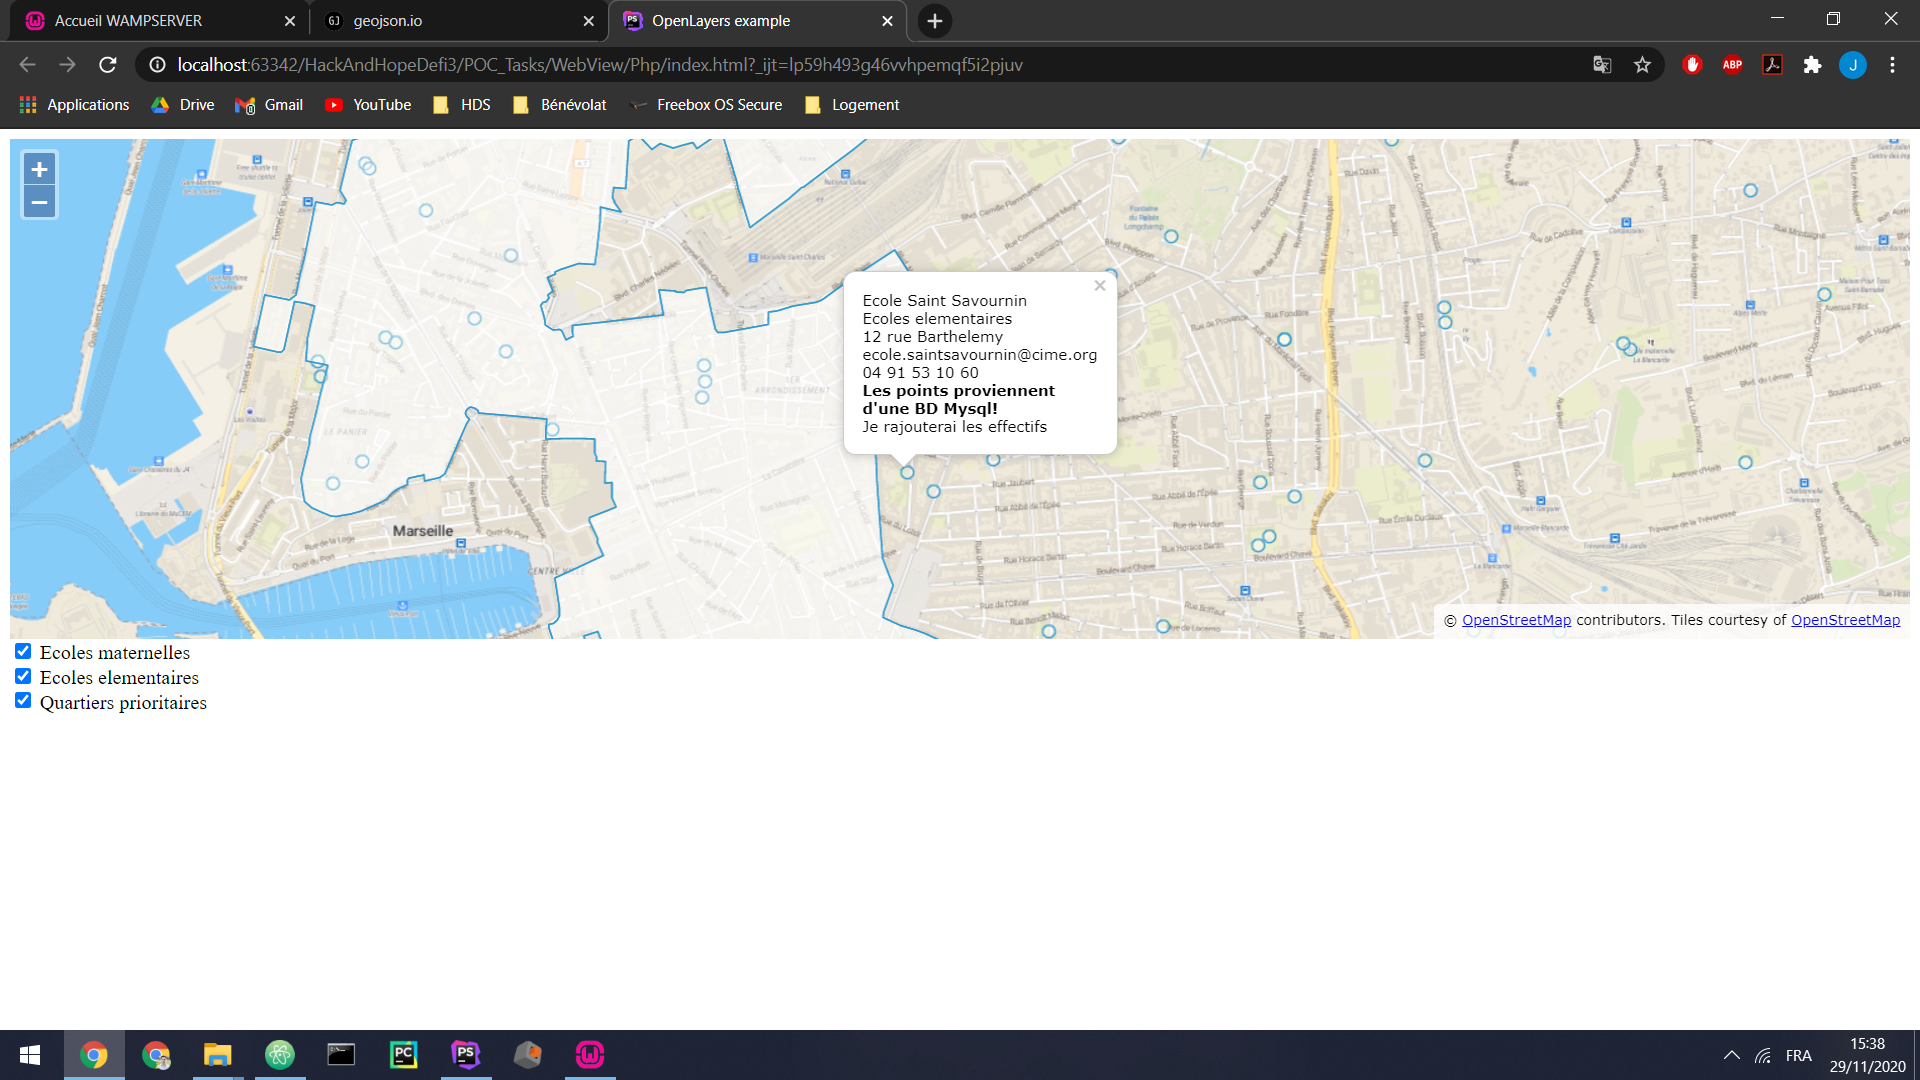
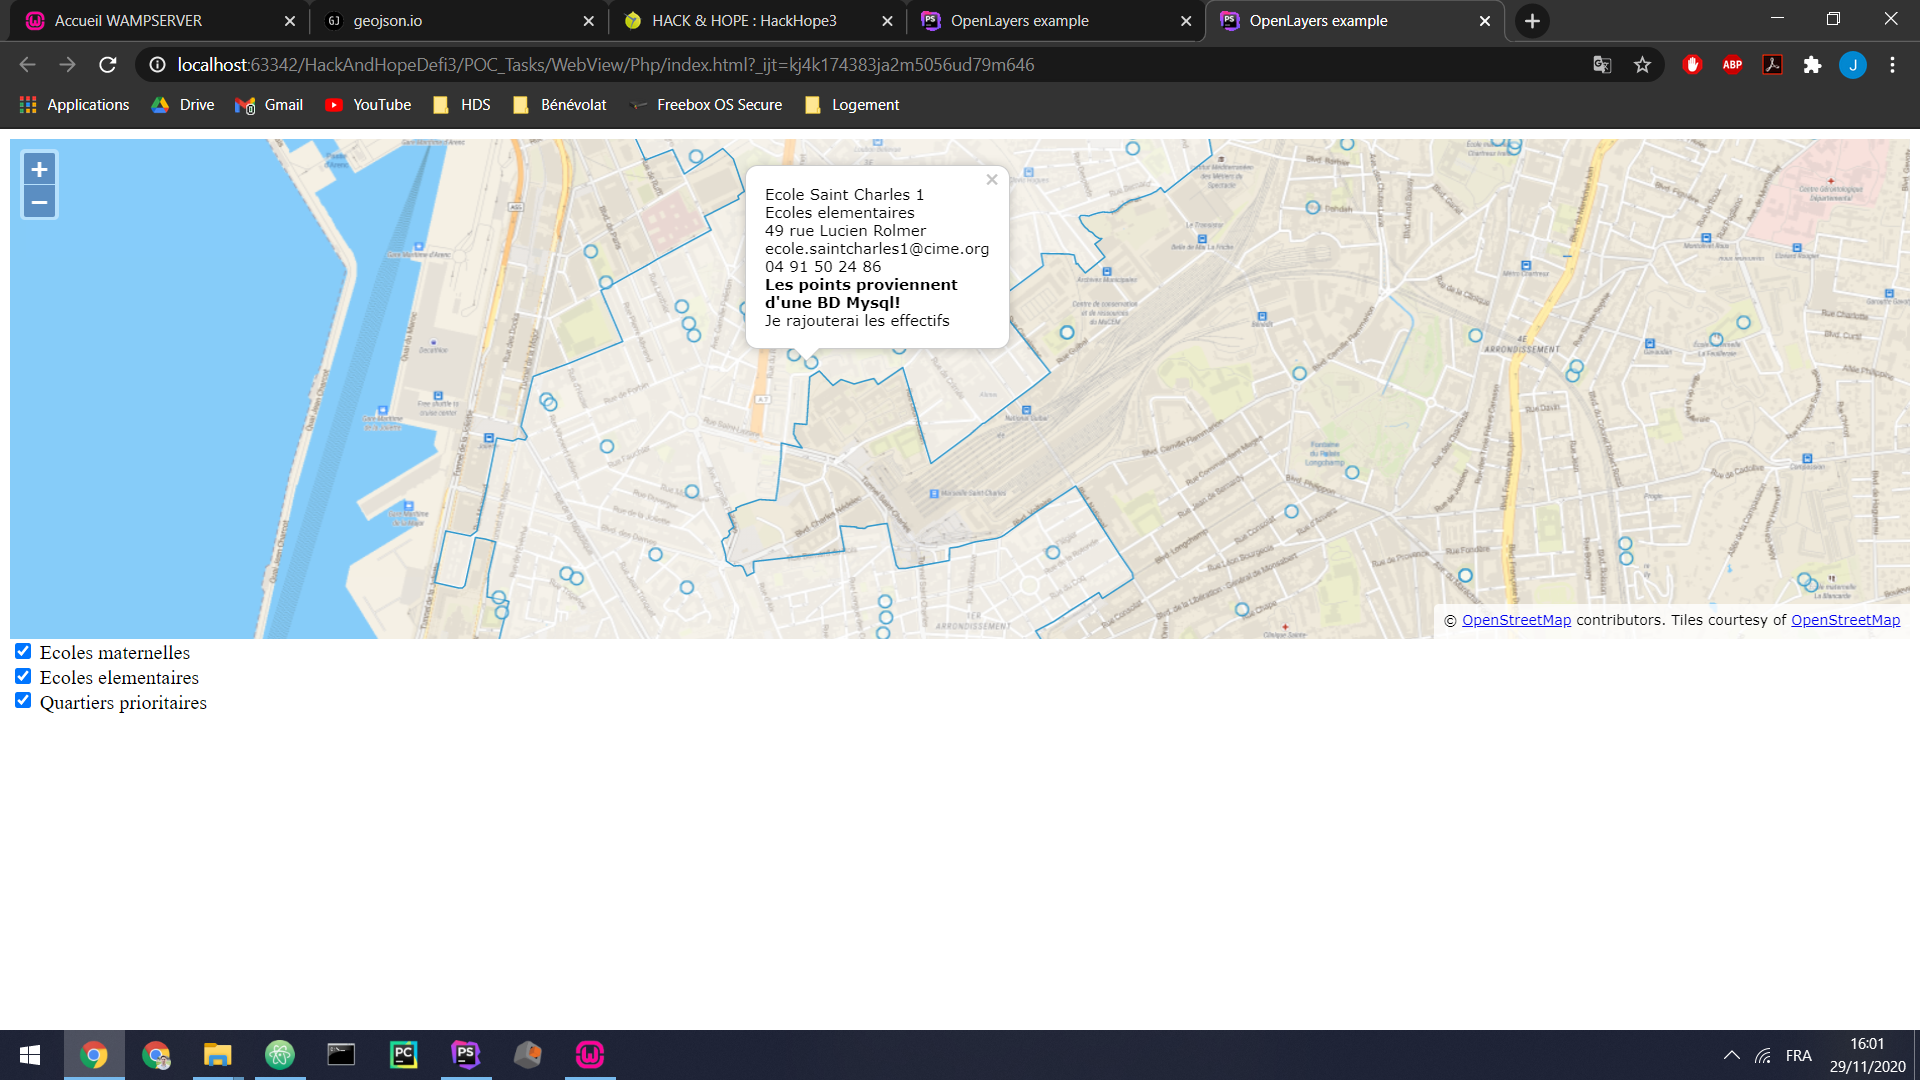
#7 Errors on area and information display corrected

diff --git a/POC_Tasks/WebView/Php/php/loadMarseilleSchool.php b/POC_Tasks/WebView/Php/php/loadMarseilleSchool.php
@@ -85,15 +85,6 @@ echo_markers("Ecoles elementaires");
 
 
 echo '
-    var vector = new ol.layer.Vector({
-        category: \'Quartiers prioritaires\',
-        source: new ol.source.Vector({
-            url: \'data/geojson/liste_quartiers_prioritairesville.geojson\',
-            format: new ol.format.GeoJSON(),
-        }),
-    });
-    map.addLayer(vector);
-
     var container = document.getElementById(\'popup\');
     var content = document.getElementById(\'popup-content\');
     var closer = document.getElementById(\'popup-closer\');
@@ -117,21 +108,34 @@ echo '
     map.on(\'singleclick\', function (event) {
         if (map.hasFeatureAtPixel(event.pixel) === true) {
             var coordinate = event.coordinate;
-            // TODO POPUP MARKER CUSTOM DISPLAY
-            content.innerHTML = \'<b>Les points proviennent d\\\'une BD Mysql!</b><br />Je rajouterai les effectifs\';
-
-
             var feature = map.forEachFeatureAtPixel(event.pixel, function(feature) {
-                return feature;
-            });
-            console.log(infoElement, feature, feature.get(\'title\'));
-            infoElement.innerHTML = feature ? feature.get(\'title\')
-              + "<br>" + feature.get(\'category\')
-              + "<br>" + feature.get(\'address\')
-               + "<br>" + feature.get(\'email\')
-                + "<br>" + feature.get(\'phone\'): \'\';
-
-            overlay.setPosition(coordinate);
+                    return feature;
+                });
+            if (feature.get(\'category\') == "Ecoles elementaires" || feature.get(\'category\') == "Ecoles maternelles") {
+                console.log(feature.get(\'category\'));
+                // TODO POPUP MARKER CUSTOM DISPLAY
+                content.innerHTML = \'<b>Les points proviennent d\\\'une BD Mysql!</b><br />Je rajouterai les effectifs\';
+    
+    
+                
+                console.log(infoElement, feature, feature.get(\'title\'));
+                
+                
+                infoElement.innerHTML = feature ? feature.get(\'title\')
+                  + "<br>" + feature.get(\'category\')
+                  + "<br>" + feature.get(\'address\')
+                   + "<br>" + feature.get(\'email\')
+                    + "<br>" + feature.get(\'phone\'): \'\';
+    
+                overlay.setPosition(coordinate);
+            }
+            else if (feature.get(\'category\') == undefined) {
+            // TODO add popup district priority information
+            }
+            else {
+                overlay.setPosition(undefined);
+                closer.blur();
+            }
         } else {
             overlay.setPosition(undefined);
             closer.blur();
